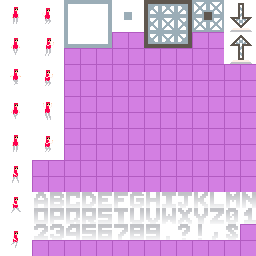
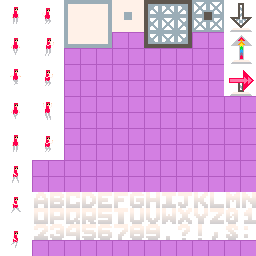
Improved graphics, and scoring

Changed region(s): [[0.125, 0.75, 1.0, 0.9375], [0.875, 0.125, 1.0, 0.375], [0.8125, 0.9062, 0.8438, 0.9375]]

diff --git a/GameServer/GameServer.cs b/GameServer/GameServer.cs
@@ -6,17 +6,19 @@ namespace GameServer;
 public class GameServer
 {
     private const int TickRate = 20;
-    private const float TickTime = TickRate / 1000f;
+    private const float TickTime = 1f / TickRate;
     private const float HeartbeatTime = 1f;
+    private const float ScoreDecayTime = 1f;
     private readonly MapData mapData;
 
     private readonly Dictionary<int, Player> players = new();
     private float heartbeatTimer;
+    private float scoreDecayTimer;
 
     public GameServer()
     {
         mapData = MapData.LoadFromFile("Content/map.json");
-        mapData.FindSpawnPos();
+        mapData.FindSpecialPoints();
 
         Dictionary<Message.MessageType, MessageStream.MessageHandler> messageHandlers = new()
         {
@@ -34,8 +36,16 @@ public class GameServer
 
         if (heartbeatTimer > HeartbeatTime)
         {
-            heartbeatTimer = 0f;
+            heartbeatTimer -= HeartbeatTime;
             Server.SendMessageToAll(Message.MessageType.Heartbeat, new HeartbeatData());
+        }
+
+        scoreDecayTimer += TickTime;
+        bool decayScore = scoreDecayTimer > ScoreDecayTime;
+        
+        if (decayScore)
+        {
+            scoreDecayTimer -= ScoreDecayTime;
         }
 
         KeyValuePair<int, Player>[] allPlayerPairs = players.ToArray();
@@ -61,12 +71,28 @@ public class GameServer
                     Animation = (byte)Animation.PlayerIdle
                 });
 
-            if (pair.Value.Score != 0) continue;
-
-            float distToStart = (pair.Value.Position - mapData.SpawnPos).Length();
-            if (distToStart > mapData.TileSize)
+            bool updatedScore = false;
+            if (pair.Value.Score != 0)
             {
-                pair.Value.Score = Player.StartingScore;
+                if (decayScore)
+                {
+                    pair.Value.Score -= 10;
+                    updatedScore = true;
+                }
+            }
+            else
+            {
+                // If this player is near the start, give them points.
+                float distToStart = (pair.Value.Position - mapData.StartPos).Length();
+                if (distToStart < mapData.TileSize)
+                {
+                    pair.Value.Score = Player.StartingScore;
+                    updatedScore = true;
+                }
+            }
+
+            if (updatedScore)
+            {
                 Server.SendMessageToAll(Message.MessageType.UpdateScore, new UpdateScoreData
                 {
                     Id = pair.Key,

diff --git a/Shared/MapData.cs b/Shared/MapData.cs
@@ -10,6 +10,8 @@ public class MapData
     [JsonInclude] public int Height;
     [JsonInclude] public Dictionary<char, TileData> Palette;
     public Vector2 SpawnPos;
+    public Vector2 StartPos;
+    public Vector2 EndPos;
     [JsonInclude] public int TileSize;
     [JsonInclude] public int Width;
 
@@ -61,14 +63,25 @@ public class MapData
         return false;
     }
 
-    public void FindSpawnPos()
+    public void FindSpecialPoints()
     {
         for (var y = 0; y < Height; y++)
         for (var x = 0; x < Width; x++)
         {
-            if (GetTile(x, y) != '[') continue;
-            SpawnPos = new Vector2((x + 0.5f) * TileSize, (y + 0.5f) * TileSize);
-            break;
+            var center = new Vector2((x + 0.5f) * TileSize, (y + 0.5f) * TileSize);
+            
+            switch (GetTile(x, y))
+            {
+                case '|':
+                    SpawnPos = center;
+                    break;
+                case '[':
+                    StartPos = center;
+                    break;
+                case ']':
+                    EndPos = center;
+                    break;
+            }
         }
     }
 }

diff --git a/GameClient/TextRenderer.cs b/GameClient/TextRenderer.cs
@@ -8,7 +8,7 @@ public class TextRenderer
     public const int TextureXStart = 2;
     public const int TextureYStart = 12;
     public const int TextureCharsPerLine = 14;
-    public const string Characters = "ABCDEFGHIJKLMNOPQRSTUVWXYZ0123456789.?!,$";
+    public const string Characters = "ABCDEFGHIJKLMNOPQRSTUVWXYZ0123456789.?!,$:";
 
     public static void Draw(string text, int x, int y, TextureAtlas atlas, SpriteBatch batch, Camera camera)
     {

diff --git a/GameClient/GameClient.cs b/GameClient/GameClient.cs
@@ -152,7 +152,7 @@ public class GameClient : Game
         if (TryGetLocalPlayer(out PlayerData playerData))
         {
             Player player = playerData.Player;
-            TextRenderer.Draw($"SCORE {player.Score}", 8, 8, textureAtlas, spriteBatch, uiCamera);
+            TextRenderer.Draw($"SCORE:{player.Score}", 8, 8, textureAtlas, spriteBatch, uiCamera);
         }
 
         spriteBatch.End();
